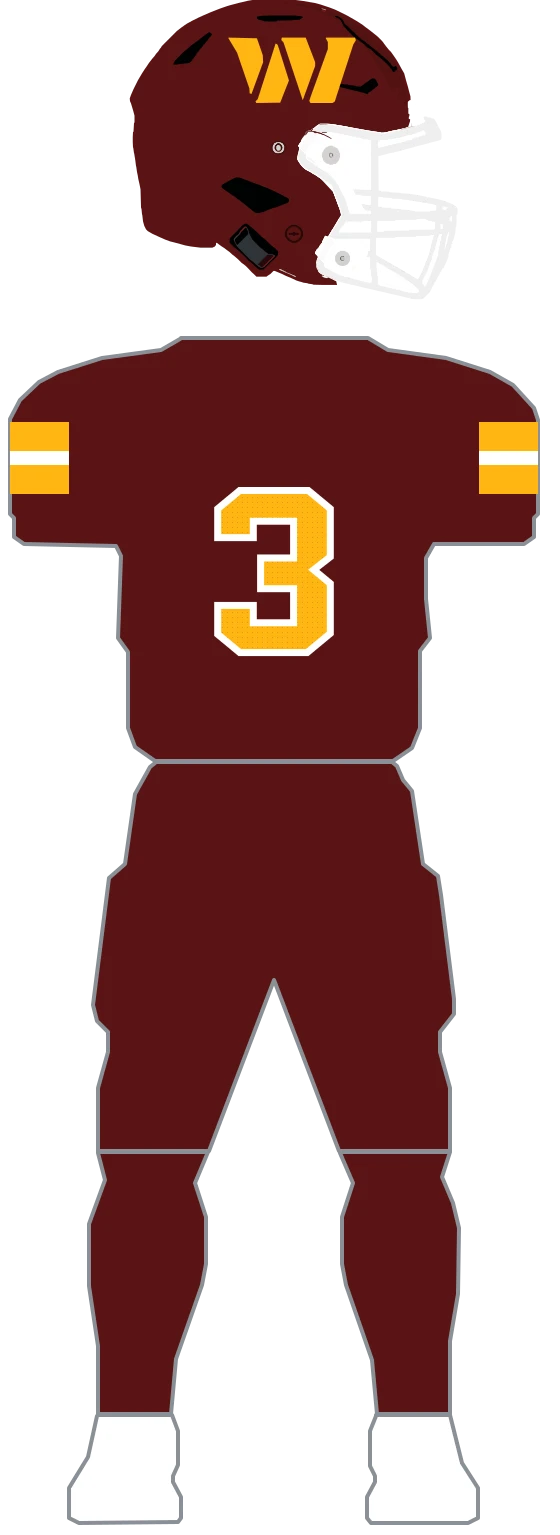
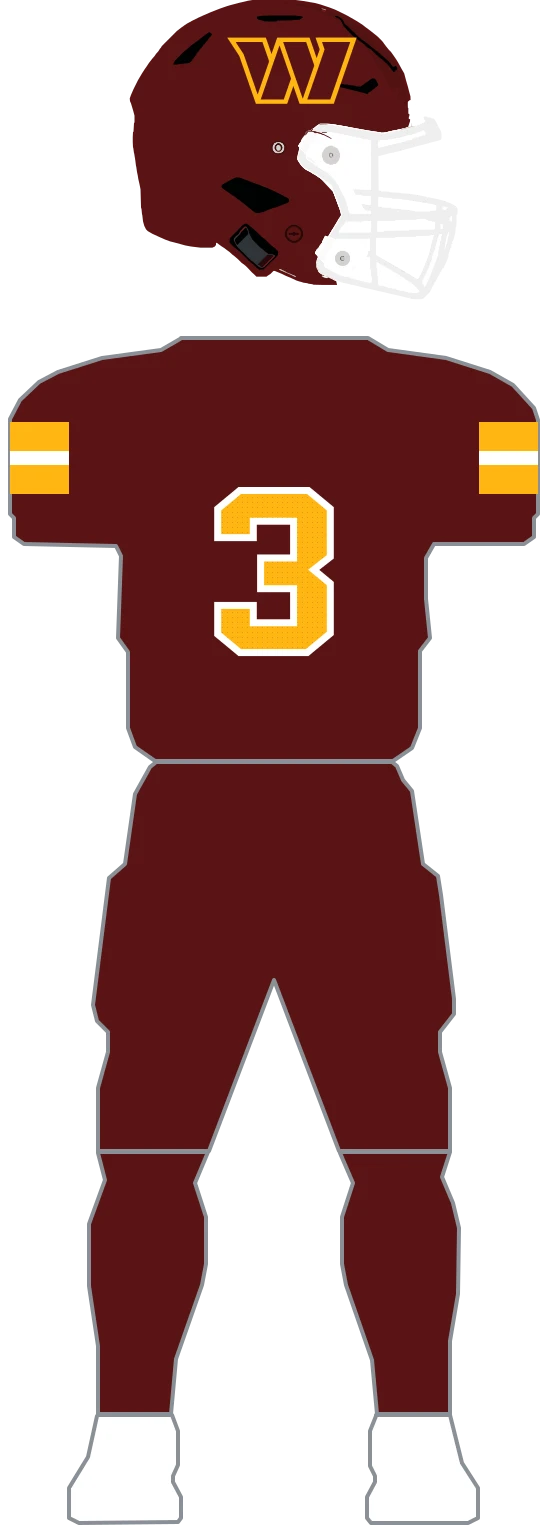
design(uniforms): refine Commanders helmet decal

Changed region(s): [[0.425, 0.0, 0.6375, 0.0919]]

diff --git a/web/lib/uniforms/teams/commanders-decal.ts b/web/lib/uniforms/teams/commanders-decal.ts
@@ -1,0 +1,4 @@
+export const COMMANDERS_DECAL_OUTER_PATH =
+  'M592.000,143.000 L510.681,143.138 L510.816,143.969 L512.846,149.785 L514.605,154.771 L516.905,161.418 L518.529,165.987 L518.664,167.372 L517.311,171.388 L516.364,174.019 L514.469,179.558 L513.116,183.297 L512.981,184.266 L512.710,184.128 L512.304,182.466 L511.087,179.143 L509.328,174.019 L507.975,170.142 L505.674,163.356 L504.321,159.617 L503.104,156.017 L501.209,150.616 L498.909,143.969 L498.503,143.138 L433.962,143.138 L432.068,148.539 L429.767,155.186 L427.197,162.664 L425.979,166.126 L423.949,171.942 L422.732,175.681 L422.461,175.681 L421.649,173.327 L420.296,169.449 L418.402,163.910 L415.831,156.432 L413.125,148.816 L411.230,143.277 L411.095,143.138 L334.106,143.138 L334.376,143.831 L335.865,146.047 L339.112,151.032 L341.683,154.909 L344.389,159.063 L347.772,164.187 L353.725,173.327 L356.567,177.619 L357.920,179.835 L359.002,182.466 L361.438,189.667 L363.197,194.652 L364.414,198.253 L366.444,204.069 L367.662,207.531 L368.609,210.300 L370.233,214.870 L371.044,217.363 L373.074,223.179 L373.886,225.533 L376.457,232.872 L378.757,239.658 L379.975,242.981 L381.328,246.997 L382.275,249.766 L384.304,255.582 L386.063,260.568 L387.416,264.584 L388.770,268.461 L391.205,275.385 L391.340,275.523 L395.805,275.662 L453.581,275.662 L453.852,275.523 L455.070,272.200 L457.641,264.722 L459.535,259.321 L461.835,252.674 L463.594,247.551 L465.082,243.396 L466.165,240.211 L466.436,240.073 L466.841,241.735 L468.330,245.889 L470.224,251.567 L471.983,256.552 L473.742,261.675 L475.230,265.830 L476.178,268.599 L478.342,274.969 L478.613,275.523 L481.860,275.662 L546.808,275.662 L547.078,275.523 L551.679,262.229 L553.302,257.521 L555.603,251.013 L557.903,244.227 L560.609,236.611 L562.638,230.656 L564.939,224.010 L567.510,216.532 L569.268,211.547 L571.163,206.007 L573.192,200.191 L577.793,186.897 L579.822,181.081 L581.717,175.542 L582.934,172.080 L585.370,165.018 L587.941,157.679 L588.888,154.909 L590.918,149.093 L592.541,144.385 L592.812,143.138 L592.677,143.000 Z';
+export const COMMANDERS_DECAL_INNER_PATH =
+  'M523.670,152.001 L579.822,152.001 L579.552,153.247 L575.493,164.879 L574.140,168.895 L572.786,172.634 L571.433,176.650 L569.268,182.882 L566.968,189.529 L564.397,196.868 L562.909,201.299 L560.879,206.977 L559.526,210.993 L557.632,216.393 L556.550,219.578 L554.926,224.148 L553.573,228.164 L551.002,235.503 L549.378,240.211 L547.484,245.751 L545.725,250.736 L541.125,264.030 L540.178,266.661 L539.907,266.938 L494.173,266.938 L494.309,266.107 L496.068,261.122 L498.638,253.644 L501.209,246.304 L503.780,238.827 L505.674,233.426 L507.975,226.779 L510.140,220.548 L512.034,215.008 L513.793,210.023 L515.687,204.623 L517.040,200.607 L521.641,187.313 L523.805,181.081 L525.564,175.958 L527.594,170.142 L528.541,167.372 L528.541,166.541 L526.782,161.556 L524.211,154.078 L523.670,152.555 Z M445.869,152.001 L491.738,152.001 L492.414,153.663 L493.767,157.679 L495.662,163.079 L497.015,167.095 L499.586,174.434 L501.074,178.727 L502.427,182.743 L503.780,186.621 L504.727,189.390 L507.027,195.899 L507.975,198.668 L507.839,199.499 L505.810,205.453 L503.780,211.270 L501.886,216.809 L499.586,223.456 L497.421,229.687 L492.820,242.981 L490.791,248.797 L488.490,255.444 L486.326,261.675 L485.378,264.445 L485.243,264.860 L484.702,264.722 L482.672,258.767 L480.507,252.536 L478.613,246.997 L476.584,241.181 L474.283,234.534 L472.254,228.718 L470.359,223.179 L468.330,217.501 L466.977,213.485 L465.218,208.362 L463.459,203.376 L462.106,199.360 L459.535,191.883 L457.505,186.067 L454.664,177.758 L453.175,173.604 L451.958,170.003 L449.658,163.356 L447.493,157.125 L445.869,152.416 Z M438.292,159.202 L438.698,159.340 L440.592,164.879 L441.539,167.511 L442.892,171.526 L444.110,174.988 L445.869,179.974 L447.087,183.574 L448.575,187.728 L449.793,191.329 L451.552,196.452 L454.123,203.792 L456.423,210.439 L458.317,215.839 L459.670,219.855 L461.429,224.840 L461.294,225.810 L459.400,231.349 L457.370,237.165 L455.611,242.150 L454.258,246.166 L452.634,250.736 L451.281,254.752 L449.658,259.321 L447.222,266.522 L446.816,266.938 L401.082,266.938 L400.947,266.661 L402.436,262.506 L405.006,255.167 L407.577,247.689 L410.148,240.350 L412.178,234.534 L414.748,227.056 L417.184,220.132 L418.402,216.532 L420.567,210.300 L422.596,204.484 L425.708,195.483 L428.008,188.836 L430.579,181.497 L432.744,175.265 L434.503,170.142 L436.668,163.910 L438.021,160.033 Z M351.019,152.001 L404.330,152.001 L405.277,154.494 L407.307,160.448 L409.066,165.433 L410.283,169.034 L411.907,173.742 L414.207,180.389 L415.560,184.266 L416.913,188.282 L417.725,190.636 L417.319,192.021 L414.748,199.499 L413.125,204.069 L411.772,208.085 L409.877,213.624 L408.118,218.609 L406.224,224.148 L404.736,228.302 L403.383,232.318 L400.271,241.319 L397.835,248.382 L395.535,255.029 L394.994,256.413 L394.588,256.413 L392.829,251.428 L390.529,244.781 L388.093,237.719 L384.034,226.087 L381.734,219.578 L380.381,215.562 L379.163,212.100 L377.268,206.561 L375.510,201.576 L373.074,194.652 L371.856,191.052 L369.691,184.820 L367.391,178.173 L366.444,175.958 L364.820,173.327 L363.603,171.526 L360.085,166.126 L359.137,164.741 L358.055,163.079 L355.214,158.786 L352.507,154.632 L351.019,152.416 Z';

diff --git a/web/lib/uniforms/teams/commanders.ts b/web/lib/uniforms/teams/commanders.ts
@@ -11,11 +11,10 @@
 // the numeral keyline.
 export const COMMANDERS_WHITE = '#FFFFFF';
 
-// The "W", traced from the home figure's shell. One layer and four subpaths: the mark is four flat
-// gold strokes separated by shell-colored gaps, with no keyline and no interior detail — the
-// simplest decal of the 32.
-export const COMMANDERS_DECAL_PATH =
-  'M531.6,143.2 L589.7,143.2 L591.2,148.7 L586.1,157.0 L549.0,271.2 L544.7,274.0 L500.3,274.0 L498.1,269.8 L501.0,260.8 L535.2,166.0 L535.2,152.2 L530.8,143.9 Z M336.7,143.2 L393.4,144.6 L405.1,178.5 L405.8,192.3 L382.5,256.0 L378.9,254.6 L378.2,244.9 L353.5,173.0 L336.0,143.9 Z M443.6,143.2 L490.9,143.2 L509.8,192.3 L509.8,199.9 L485.0,268.5 L446.5,152.9 L442.1,148.0 L442.9,143.9 Z M431.2,155.0 L434.9,157.7 L457.4,229.0 L440.0,273.3 L392.0,274.0 L390.5,270.5 L394.9,266.4 L430.5,155.7 Z';
+// The placed outer and shell-colored inner layers are generated from the supplied SVG.
+import { COMMANDERS_DECAL_INNER_PATH, COMMANDERS_DECAL_OUTER_PATH } from './commanders-decal';
+export { COMMANDERS_DECAL_INNER_PATH };
+export const COMMANDERS_DECAL_PATH = COMMANDERS_DECAL_OUTER_PATH;
 
 // The sleeve band, measured on the home figure. A column crosses gold y432-441, white y442-446 and
 // gold y447-456. Extended outward to x=30 for a flush clip.

diff --git a/web/lib/uniforms/teams/commanders.parts.ts b/web/lib/uniforms/teams/commanders.parts.ts
@@ -14,6 +14,7 @@
 import {
   COMMANDERS_BOUNDS,
   COMMANDERS_DECAL_PATH,
+  COMMANDERS_DECAL_INNER_PATH,
   COMMANDERS_SLEEVE_X_LEFT,
   COMMANDERS_SLEEVE_X_RIGHT,
 } from './commanders';
@@ -45,17 +46,25 @@ function sleeveBand(band: string, line: string): PartLayer[] {
   return out;
 }
 
-// The gold "W" — one layer, four subpaths, no keyline. Gold is the mark's color on every kit; the
-// jersey supplies which palette color that is.
+// The supplied standalone SVG has a gold outer W and burgundy interior panels. Painting the
+// shell-colored panels over the gold preserves the full mark on any future non-burgundy shell.
 function decal(which: string): PartLayer[] {
   return [
     {
-      id: 'commanders-decal',
+      id: 'commanders-decal-outer',
       surface: 'helmet',
       d: COMMANDERS_DECAL_PATH,
       clip: true,
       kind: 'fill',
       fill: which,
+    },
+    {
+      id: 'commanders-decal-inner',
+      surface: 'helmet',
+      d: COMMANDERS_DECAL_INNER_PATH,
+      clip: true,
+      kind: 'fill',
+      fill: 'burgundy',
     },
   ];
 }

diff --git a/web/scripts/uniform-draw/commanders_w.py b/web/scripts/uniform-draw/commanders_w.py
@@ -1,0 +1,89 @@
+"""Generate the Commanders helmet mark from the supplied standalone SVG (DEP-473)."""
+
+from pathlib import Path
+import re
+import sys
+
+sys.path.insert(0, str(Path(__file__).resolve().parent))
+from drawkit import main  # noqa: E402
+
+REF = Path('/Users/cwharris/Downloads/decal_svgs/commanders_w.svg')
+MODULE = Path(__file__).resolve().parents[2] / 'lib/uniforms/teams/commanders-decal.ts'
+TOKEN = re.compile(r'[A-Za-z]|[-+]?(?:\d*\.\d+|\d+\.?)(?:[eE][-+]?\d+)?')
+PATH = re.compile(r'<path\b(?P<attrs>[^>]*)/>')
+ATTR = re.compile(r'(?P<name>transform|d|fill)="(?P<value>[^"]+)"')
+TRANSLATE = re.compile(r'translate\(([-+]?\d+(?:\.\d+)?)(?:[, ]+([-+]?\d+(?:\.\d+)?))?\)')
+
+# The GUD helmet composite measures the existing mark envelope at x=336..592, y=143..274.
+X0, Y0, W, H = 336.0, 143.0, 256.0, 131.0
+SOURCE_X0, SOURCE_Y0, SOURCE_W, SOURCE_H = 34.0, 67.0, 1892.0, 946.0
+
+
+def placed_path(source: str, tx: float, ty: float) -> str:
+    tokens, i, command, x, y = TOKEN.findall(source), 0, '', 0.0, 0.0
+    out = []
+
+    def read():
+        nonlocal i
+        value = float(tokens[i])
+        i += 1
+        return value
+
+    def point(px, py):
+        return (X0 + ((px + tx) - SOURCE_X0) * W / SOURCE_W,
+                Y0 + ((py + ty) - SOURCE_Y0) * H / SOURCE_H)
+
+    def emit(kind, px, py):
+        qx, qy = point(px, py)
+        out.append(f'{kind}{qx:.3f},{qy:.3f}')
+
+    while i < len(tokens):
+        if tokens[i].isalpha():
+            command = tokens[i]
+            i += 1
+            if command in 'Zz':
+                out.append('Z')
+                continue
+        if command in 'MmLl':
+            relative = command.islower()
+            first = True
+            while i < len(tokens) and not tokens[i].isalpha():
+                nx, ny = read(), read()
+                x, y = (x + nx, y + ny) if relative else (nx, ny)
+                emit('M' if command in 'Mm' and first else 'L', x, y)
+                first = False
+            continue
+        if command in 'HhVv':
+            relative = command.islower()
+            while i < len(tokens) and not tokens[i].isalpha():
+                if command in 'Hh':
+                    nx = read(); x = x + nx if relative else nx
+                else:
+                    ny = read(); y = y + ny if relative else ny
+                emit('L', x, y)
+            continue
+        raise ValueError(f'unsupported SVG command {command!r}')
+    return ' '.join(out)
+
+
+def build():
+    paths = []
+    for match in PATH.finditer(REF.read_text()):
+        attrs = dict(ATTR.findall(match.group('attrs')))
+        if attrs.get('fill') not in ('#FEFDFD', '#591513'):
+            continue
+        transform = TRANSLATE.fullmatch(attrs.get('transform', 'translate(0)'))
+        if transform is None:
+            raise ValueError(f'unsupported transform: {attrs.get("transform")}')
+        d = attrs['d']
+        if attrs.get('fill') == '#FEFDFD':
+            # The source's first subpath is a white page rectangle; keep only the W silhouette.
+            d = 'm1926' + d.split('zm1926', 1)[1]
+        paths.append(placed_path(d, float(transform.group(1)), float(transform.group(2) or 0)))
+    if len(paths) != 5:
+        raise ValueError(f'expected five mark paths, found {len(paths)}')
+    return {'COMMANDERS_DECAL_OUTER_PATH': paths[0], 'COMMANDERS_DECAL_INNER_PATH': ' '.join(paths[1:])}
+
+
+if __name__ == '__main__':
+    main(build, MODULE)
